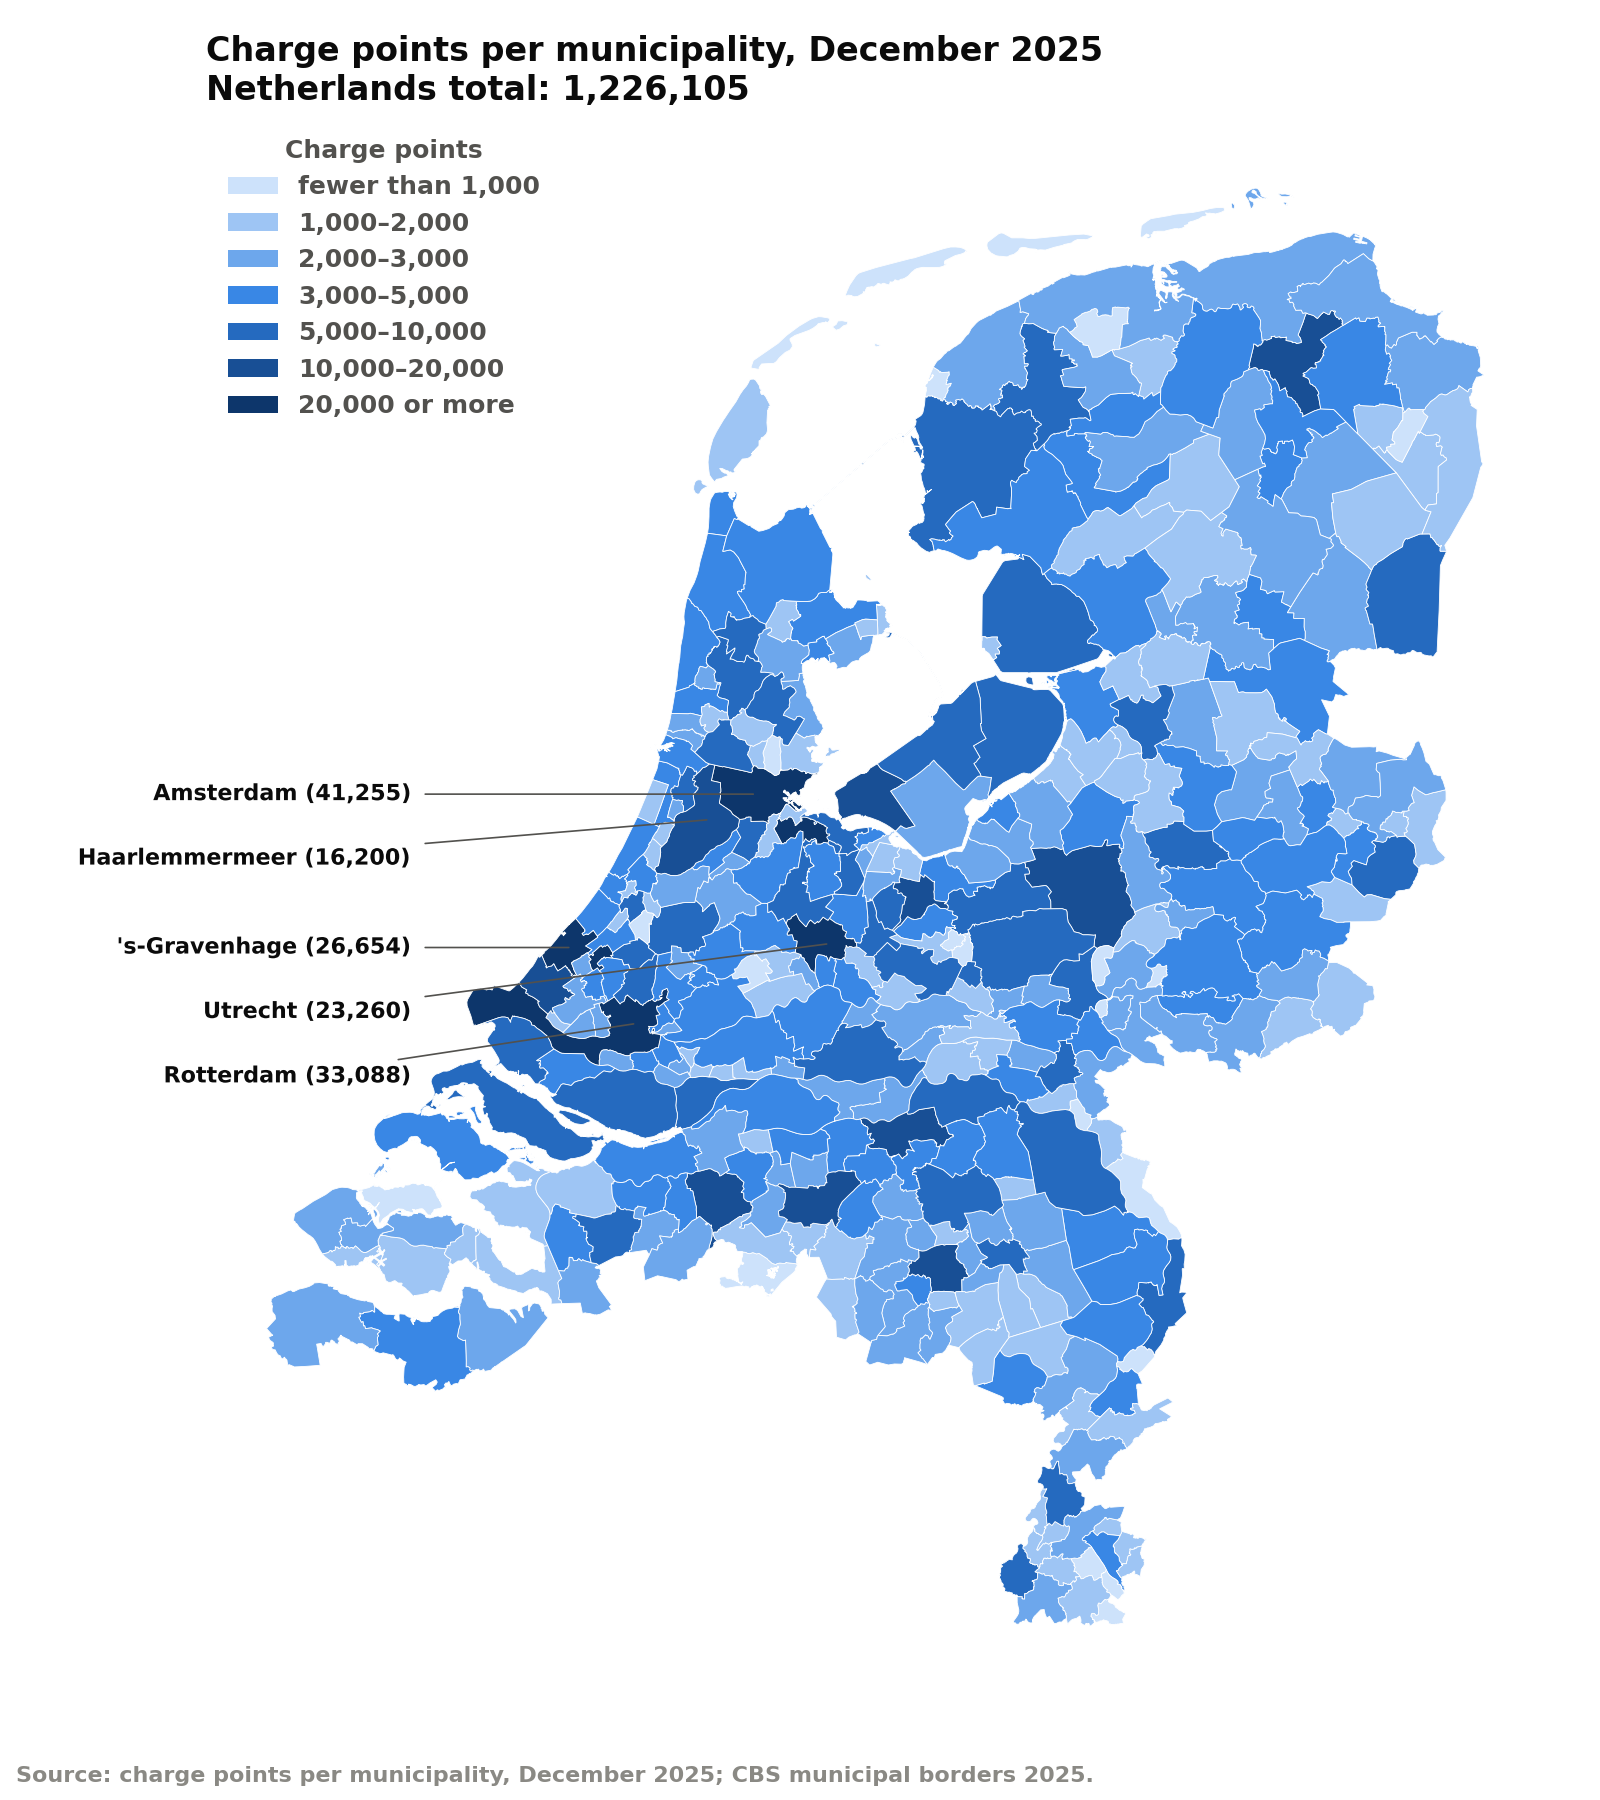
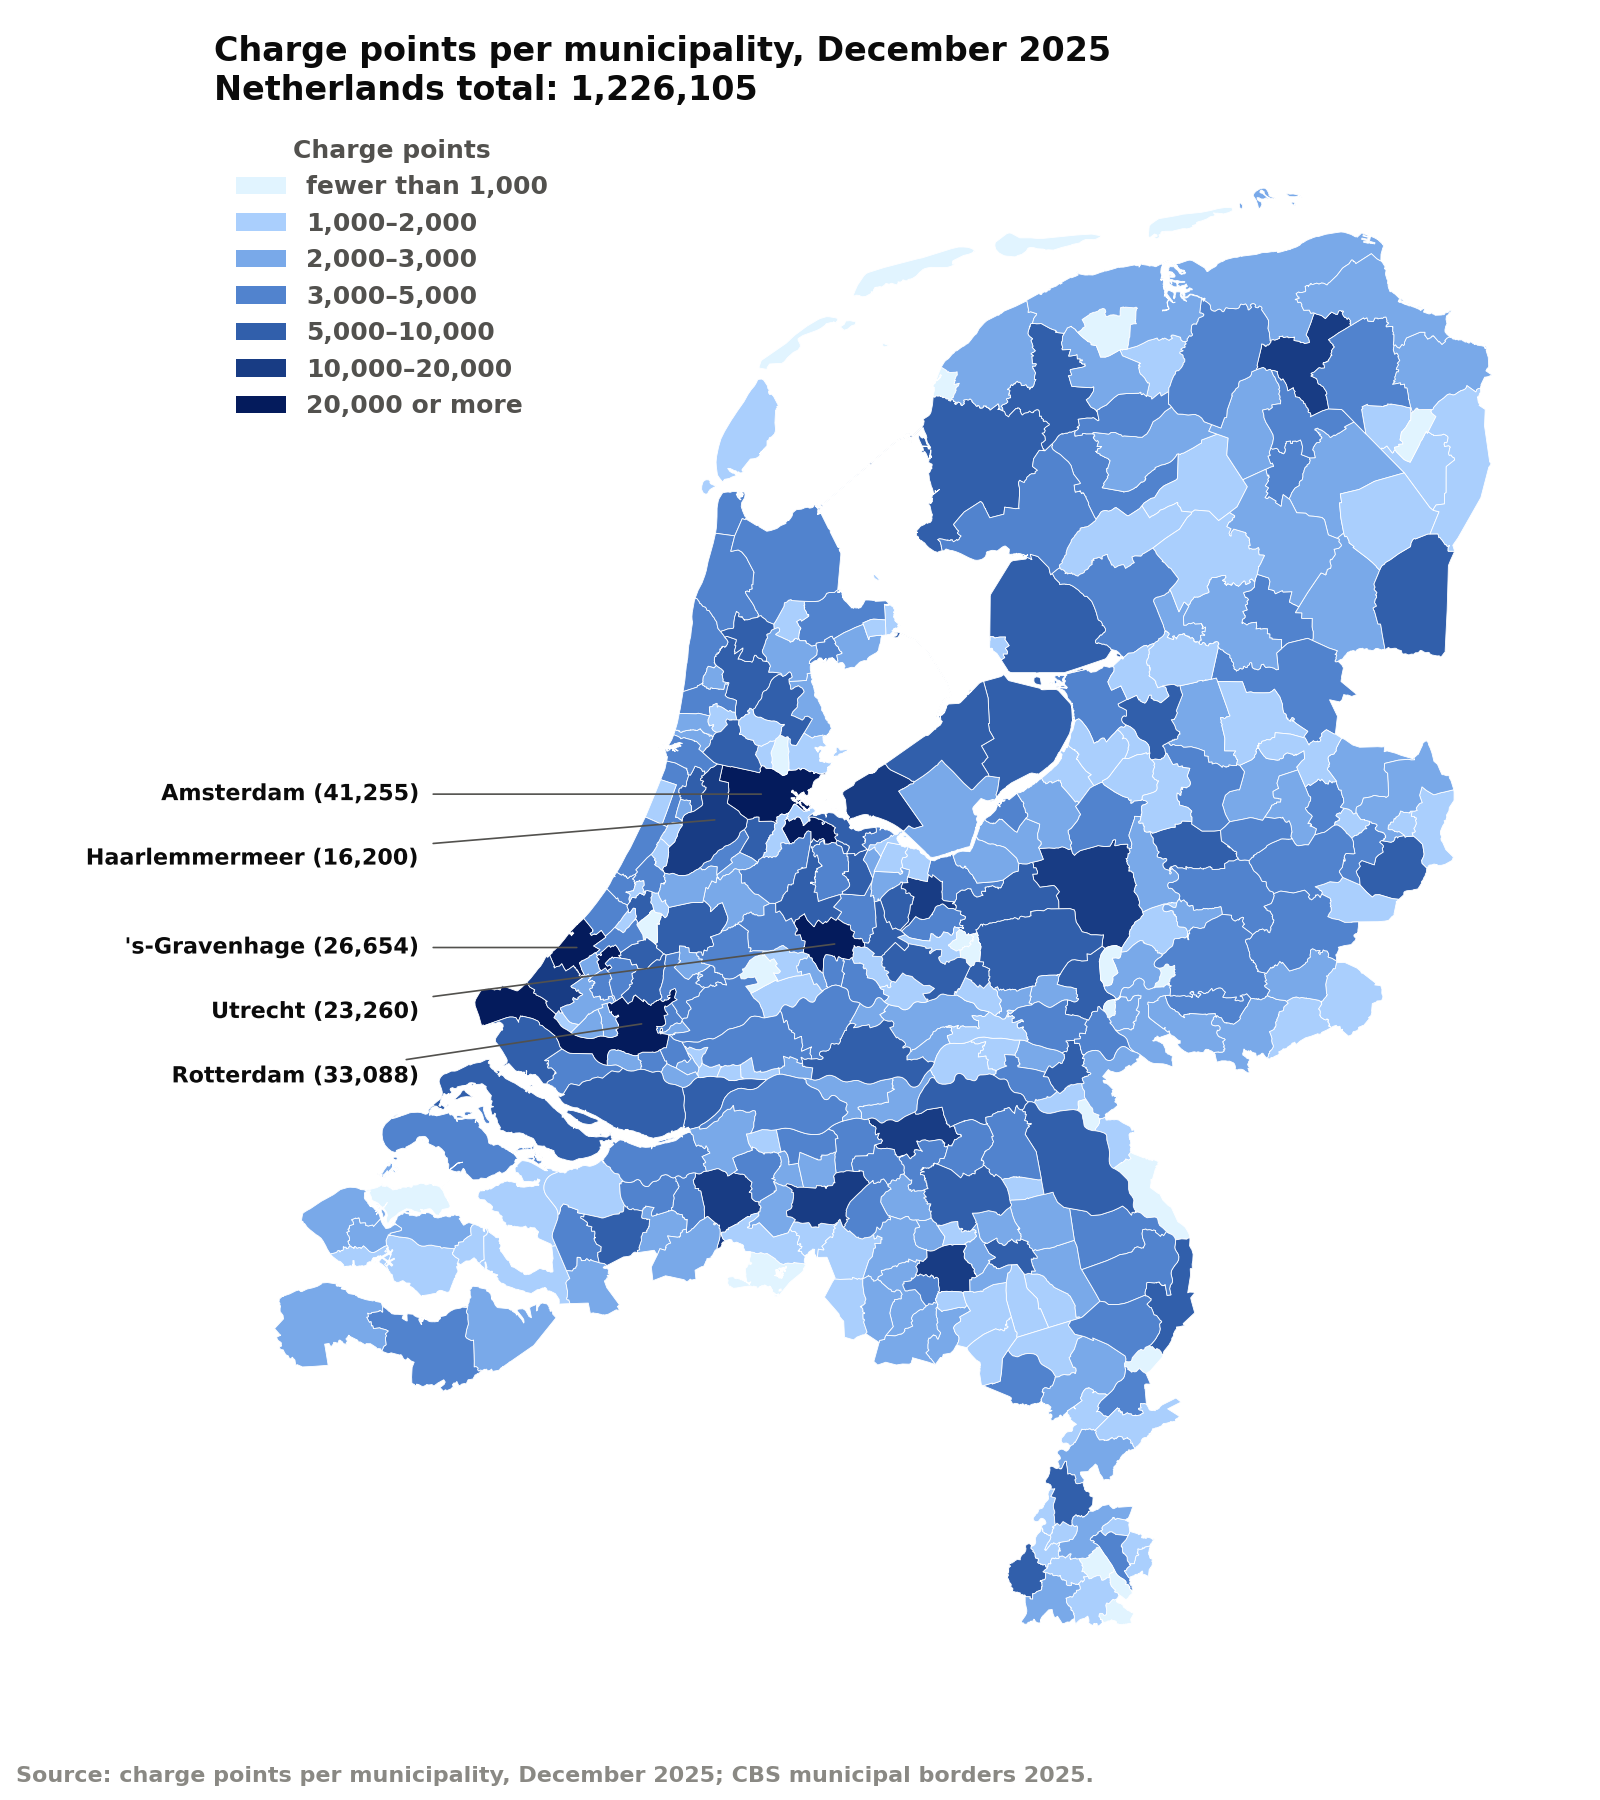
Refactor code structure for improved readability and maintainability

diff --git a/src/plot_maps.py b/src/plot_maps.py
@@ -1,7 +1,9 @@
-"""Maps of the Netherlands per municipality in 2025:
-1. charge points,
-2. charge points per 1,000 inhabitants,
-3. electric passenger cars (FEV) per 1,000 inhabitants.
+"""Maps of the Netherlands per municipality:
+1. charge points (2025),
+2. charge points per 1,000 inhabitants (2025),
+3. electric passenger cars (FEV) per 1,000 inhabitants (2025),
+4. growth of the number of charge points, 2023-2025,
+5. growth of the number of electric passenger cars, 2023-2025.
 
 Needs data/population_2025.csv (from src/download_population.py).
 Run from the repository root:  python src/plot_maps.py
@@ -19,8 +21,8 @@ ROOT = Path(__file__).resolve().parent.parent
 DATA_DIR = ROOT / "data"
 FIG_DIR = ROOT / "figures"
 
-# Charge points at the end of December 2025; EVs and inhabitants on 1 January 2025.
-CHARGE_POINTS_COLUMN = "aantal laadpunten per gemeente|December 2025"
+# Charge points at the end of December; EVs and inhabitants on 1 January.
+CHARGE_POINTS_COLUMN = "aantal laadpunten per gemeente|December {year}"
 EV_COLUMN = "Aantal personenauto's FEV van natuurlijke personen en gekoppelde rechtspersonen"
 
 # Names in the charge point file that differ from the CBS border names.
@@ -34,11 +36,14 @@ CBS_NAMES = {
     "Stein": "Stein (L.)",
 }
 
-# One hue, light -> dark: a higher value is darker.
-COLORS = ["#cde2fb", "#9ec5f4", "#6da7ec", "#3987e5", "#256abf", "#184f95", "#0d366b"]
+# One hue, very light -> very dark in even steps: a higher value is darker.
+COLORS = ["#e1f4ff", "#aacffd", "#79a9e9", "#5183ce", "#315fab", "#183c84", "#041b5c"]
+NO_DATA_COLOR = "#d6d5d0"
 INK, INK_MUTED, SOURCE_GREY = "#0b0b0b", "#52514e", "#8a8984"
 LABEL_X_M = 45_000    # RD x-coordinate (metres) where the labels end, in the North Sea
 LABEL_GAP_M = 14_000  # minimum vertical distance between labels
+# With very few EVs in 2023 the growth is meaningless (Vlieland: 0 -> 3).
+MIN_EVS_2023 = 25
 
 
 def name_key(name: str) -> str:
@@ -57,42 +62,53 @@ def load() -> gpd.GeoDataFrame:
     charge_points = pd.read_csv(DATA_DIR / "charge_points_2023-2025.csv", sep=";")
     charge_points = pd.DataFrame({
         "key": charge_points["Gemeenten"].replace(CBS_NAMES).map(name_key),
-        "charge_points": charge_points[CHARGE_POINTS_COLUMN],
-    })
-
-    evs = pd.read_csv(DATA_DIR / "personenautos_fev_2025.csv", dtype=str)
-    evs.columns = [" ".join(c.split()) for c in evs.columns]  # headers contain line breaks
-    evs = evs.dropna(subset=["Gemeentenaam"])
-    evs = pd.DataFrame({
-        "key": evs["Gemeentenaam"].map(name_key),
-        # Values use a space as thousands separator ("1 678").
-        "evs": pd.to_numeric(evs[EV_COLUMN].str.replace(r"\s", "", regex=True)),
+        "charge_points": charge_points[CHARGE_POINTS_COLUMN.format(year=2025)],
+        "charge_points_2023": charge_points[CHARGE_POINTS_COLUMN.format(year=2023)],
     })
 
     gdf = (gdf.merge(population, on="statcode", validate="one_to_one")
               .merge(charge_points, on="key", validate="one_to_one")
-              .merge(evs, on="key", validate="one_to_one"))
+              .merge(load_evs(2025, "evs"), on="key", validate="one_to_one")
+              .merge(load_evs(2023, "evs_2023"), on="key", validate="one_to_one"))
     assert len(gdf) == 342, f"only {len(gdf)} of 342 municipalities matched"
 
     gdf["charge_points_per_1000"] = gdf["charge_points"] / gdf["inhabitants"] * 1000
     gdf["evs_per_1000"] = gdf["evs"] / gdf["inhabitants"] * 1000
+    # Growth as a fraction (0.67 = +67%).
+    gdf["charge_points_growth"] = gdf["charge_points"] / gdf["charge_points_2023"] - 1
+    gdf["evs_growth"] = (gdf["evs"] / gdf["evs_2023"] - 1).where(
+        gdf["evs_2023"] >= MIN_EVS_2023)
     return gdf
 
 
+def load_evs(year: int, column: str) -> pd.DataFrame:
+    evs = pd.read_csv(DATA_DIR / f"personenautos_fev_{year}.csv", dtype=str)
+    evs.columns = [" ".join(c.split()) for c in evs.columns]  # headers contain line breaks
+    evs = evs.dropna(subset=["Gemeentenaam"])
+    return pd.DataFrame({
+        "key": evs["Gemeentenaam"].map(name_key),
+        # Values use a space as thousands separator ("1 678").
+        column: pd.to_numeric(evs[EV_COLUMN].str.replace(r"\s", "", regex=True)),
+    })
+
+
 def plot_map(gdf, column, bins, bin_labels, legend_title, title, label_by, label_n,
-             label_format, source, filename):
-    """Choropleth of `column` in classes; names the `label_n` largest `label_by`."""
+             label_format, source, filename, no_data_label=None):
+    """Choropleth of `column` in classes; names the `label_n` largest `label_by`.
+    Municipalities without a value are grey, explained by `no_data_label`."""
     classes = pd.cut(gdf[column], bins, labels=False, right=False)
+    colors = classes.map(dict(enumerate(COLORS))).fillna(NO_DATA_COLOR)
     fig, ax = plt.subplots(figsize=(8, 9))
     # White borders act as a thin gap between neighbouring municipalities.
-    gdf.plot(ax=ax, color=classes.map(dict(enumerate(COLORS))),
-             edgecolor="white", linewidth=0.3)
+    gdf.plot(ax=ax, color=colors, edgecolor="white", linewidth=0.3)
 
     top = gdf.nlargest(label_n, label_by)
     add_sea_labels(ax, top, [f"{r['statnaam']} ({r[column]:{label_format}})"
                              for _, r in top.iterrows()])
 
     handles = [Patch(facecolor=c, label=l) for c, l in zip(COLORS, bin_labels)]
+    if no_data_label:
+        handles.append(Patch(facecolor=NO_DATA_COLOR, label=no_data_label))
     legend = ax.legend(handles=handles, title=legend_title, loc="upper left",
                        frameon=False, fontsize=9, title_fontsize=9, labelcolor=INK_MUTED)
     legend.get_title().set_color(INK_MUTED)
@@ -101,7 +117,7 @@ def plot_map(gdf, column, bins, bin_labels, legend_title, title, label_by, label
     ax.set_axis_off()
     ax.set_aspect("equal")
     fig.text(0.01, 0.01, source, fontsize=8, color=SOURCE_GREY)
-    fig.tight_layout(rect=(0.02, 0.04, 1, 1))
+    fig.tight_layout(rect=(0.03, 0.04, 1, 1))
 
     FIG_DIR.mkdir(exist_ok=True)
     fig.savefig(FIG_DIR / filename, dpi=200)
@@ -171,6 +187,34 @@ def main() -> None:
              source="Source: CBS, FEV passenger cars of private persons (lease and company "
                     f"cars not included);\n{cbs_source}",
              filename="evs_per_1000_inhabitants_map.png")
+
+    national = gdf["charge_points"].sum() / gdf["charge_points_2023"].sum() - 1
+    plot_map(gdf, "charge_points_growth",
+             bins=[0, 0.5, 0.6, 0.7, 0.8, 0.9, 1.0, float("inf")],
+             bin_labels=["less than +50%", "+50–60%", "+60–70%", "+70–80%", "+80–90%",
+                         "+90–100%", "+100% or more (doubled)"],
+             legend_title="Growth in charge points\nDecember 2023 → December 2025",
+             title="Growth in charge points per municipality, 2023–2025\n"
+                   f"Netherlands overall: {national:+.0%}",
+             label_by="inhabitants", label_n=4, label_format="+.0%",
+             source="Source: charge points per municipality, December 2023 and December "
+                    "2025; CBS municipal borders 2025.",
+             filename="charge_points_growth_map.png")
+
+    reliable = gdf["evs_growth"].notna()
+    national = gdf.loc[reliable, "evs"].sum() / gdf.loc[reliable, "evs_2023"].sum() - 1
+    plot_map(gdf, "evs_growth",
+             bins=[0, 0.6, 0.7, 0.8, 0.9, 1.0, 1.1, float("inf")],
+             bin_labels=["less than +60%", "+60–70%", "+70–80%", "+80–90%", "+90–100%",
+                         "+100–110%", "+110% or more"],
+             legend_title="Growth in electric cars\n1 January 2023 → 1 January 2025",
+             title="Growth in electric passenger cars per municipality, 2023–2025\n"
+                   f"Netherlands overall: {national:+.0%}",
+             label_by="inhabitants", label_n=4, label_format="+.0%",
+             no_data_label=f"fewer than {MIN_EVS_2023} electric\ncars in 2023",
+             source="Source: CBS, FEV passenger cars of private persons (lease and company "
+                    "cars not included),\n1 January 2023 and 2025; CBS municipal borders 2025.",
+             filename="evs_growth_map.png")
 
 
 if __name__ == "__main__":

diff --git a/README.md b/README.md
@@ -31,7 +31,7 @@ The scripts in `src/` are run from the repository root:
 |--------|--------------|
 | `python src/download_municipal_borders.py` | Downloads the 2025 municipal borders (CBS/PDOK) to `data/` |
 | `python src/download_population.py` | Downloads the population per municipality on 1 January 2025 (CBS) to `data/` |
-| `python src/plot_maps.py` | Maps of charge points, charge points per 1,000 inhabitants and EVs per 1,000 inhabitants |
+| `python src/plot_maps.py` | Maps of charge points, charge points and EVs per 1,000 inhabitants, and their growth 2023–2025 |
 | `python src/ev_growth_top10.py` | Bar charts of the 10 municipalities with the largest EV growth, 2022–2025 |
 
 *To be completed for the final report: the steps needed to reproduce the analysis.*
